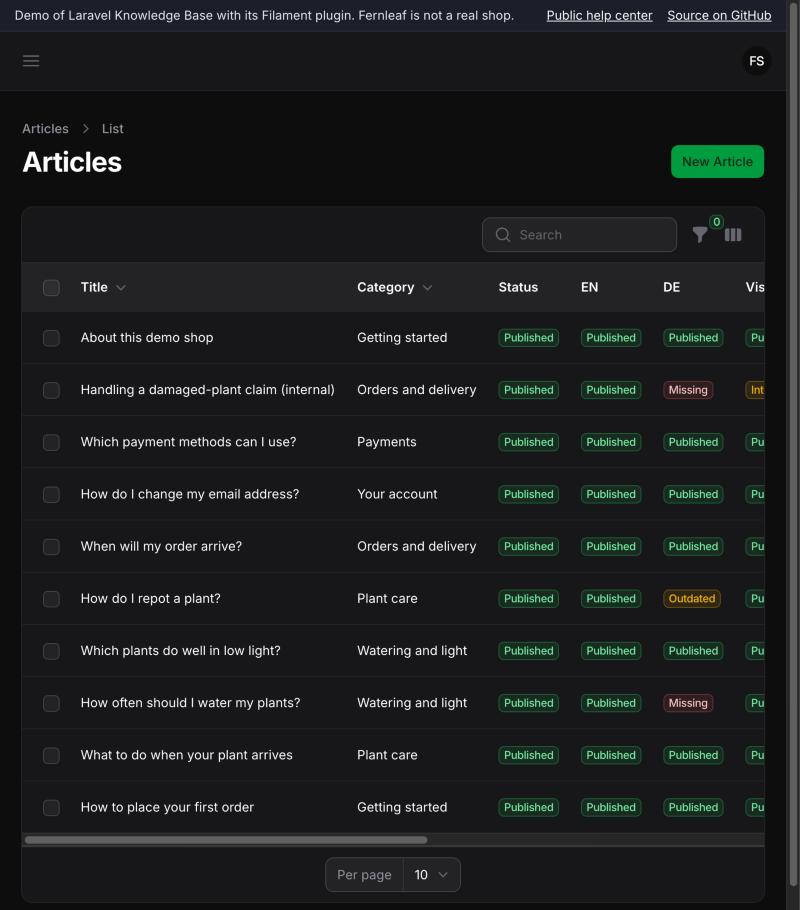
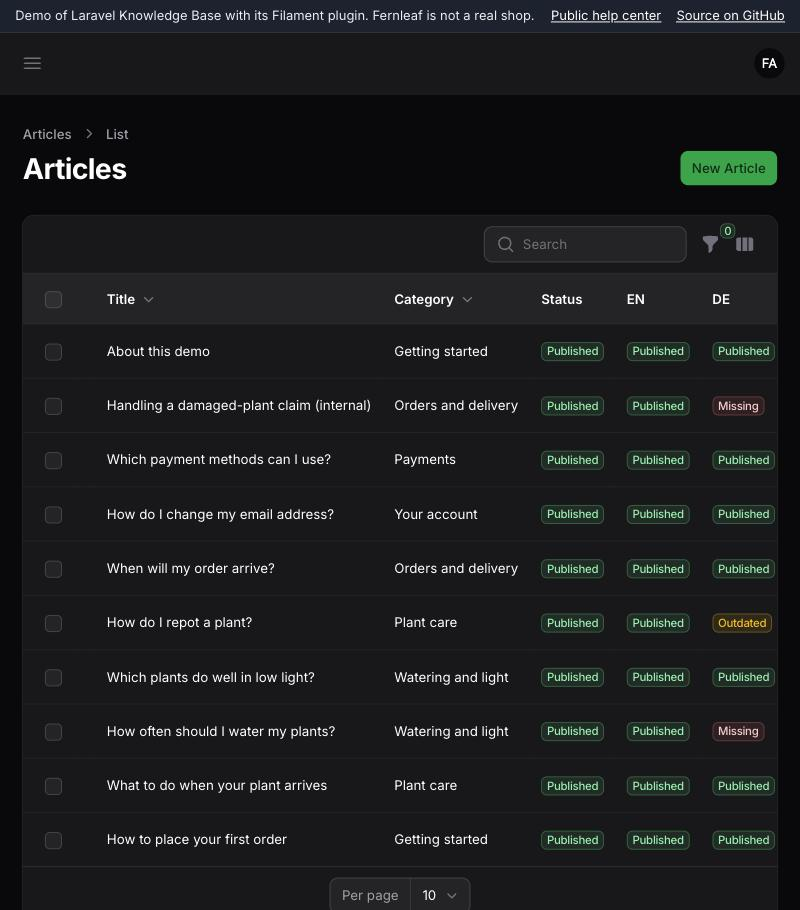
docs: refresh the admin screenshots and add the image dialog and asset manager

diff --git a/README.md b/README.md
@@ -83,6 +83,8 @@ The first article in the help center, "About this demo", links to each of these.
 | ![The about article listing what to try](docs/screenshots/about.jpg) | ![Editing the German version, marked outdated](docs/screenshots/admin-language-tabs.jpg) |
 | **German reader, English-only article** | **German reader, outdated translation** |
 | ![Notice that the article is not available in German yet](docs/screenshots/missing-translation-de.jpg) | ![Warning that the English version changed after translation](docs/screenshots/outdated-translation-de.jpg) |
+| **Admin: insert an image in German** | **Admin: the article's images and files** |
+| ![The Insert image dialog offering the shared image and the German one](docs/screenshots/admin-insert-image.jpg) | ![The Assets tab: a card per image or file, with its scope and where it is used](docs/screenshots/admin-assets.jpg) |
 
 ## What's where
 
